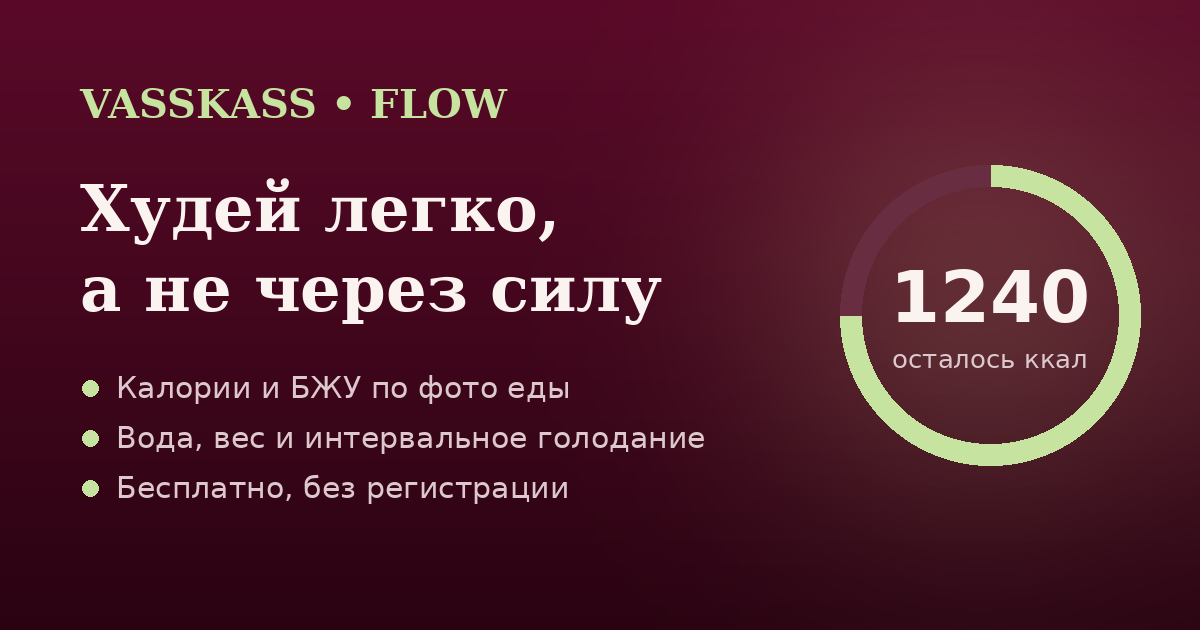
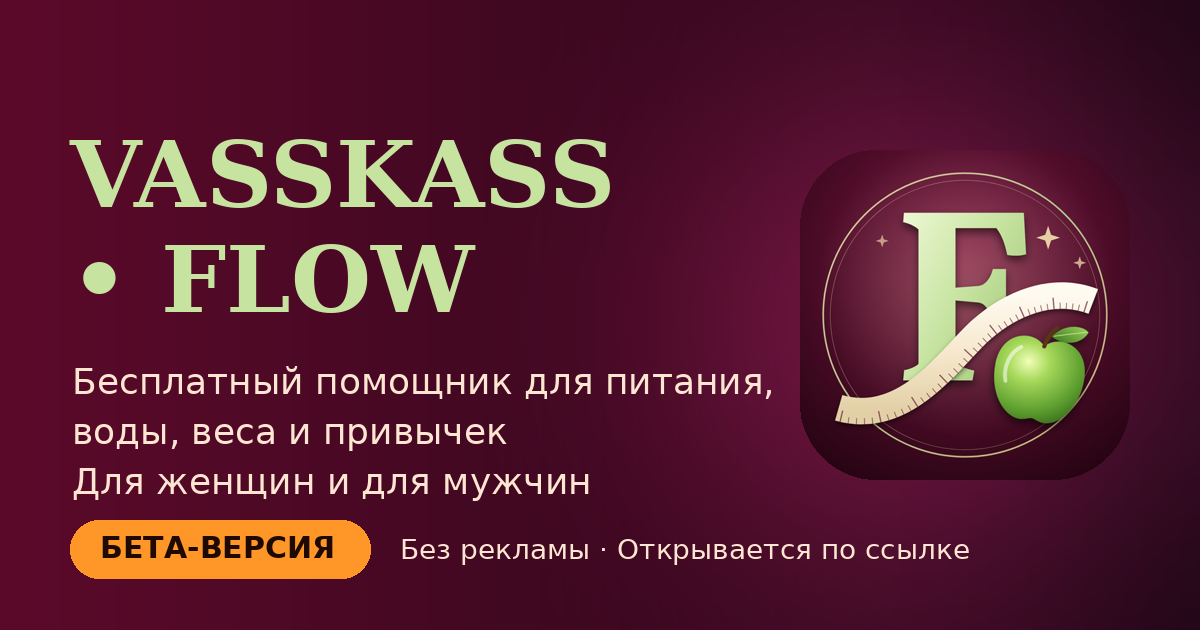
v75: честные описания ссылки (без обещаний фото-распознавания), новый og-image, правки вёрстки на узких экранах 320-360 px
Claude-Session: https://claude.ai/code/session_01UZPCpEJoczKS2AuvPBWdBs

diff --git a/index.html b/index.html
@@ -4,7 +4,7 @@
 <meta charset="UTF-8">
 <meta name="viewport" content="width=device-width, initial-scale=1, maximum-scale=1, user-scalable=no, viewport-fit=cover">
 <title>Счётчик калорий и трекер похудения бесплатно — VASSKASS • FLOW</title>
-<meta name="description" content="Бесплатный трекер калорий и похудения: калории и БЖУ по фото еды, вода, вес, интервальное голодание. Без регистрации.">
+<meta name="description" content="Бесплатный трекер питания, воды, веса и привычек для женщин и мужчин: калории и БЖУ, цели «похудеть», «набрать» или «для себя». Бета-версия, без рекламы.">
 <meta name="keywords" content="счётчик калорий, трекер калорий, дневник питания, калькулятор калорий, похудение, как похудеть, подсчёт калорий онлайн, БЖУ, калорийность продуктов, интервальное голодание, трекер воды, трекер веса, приложение для похудения бесплатно">
 <meta name="robots" content="index, follow, max-image-preview:large">
 <meta name="application-name" content="VASSKASS • FLOW">
@@ -13,18 +13,18 @@
 <link rel="canonical" href="https://dontvan228-hue.github.io/Vas-kas/">
 <meta property="og:type" content="website">
 <meta property="og:site_name" content="VASSKASS • FLOW">
-<meta property="og:title" content="VASSKASS • FLOW — худей легко, а не через силу">
-<meta property="og:description" content="Бесплатный трекер калорий и похудения: калории и БЖУ по фото еды, вода, вес, интервальное голодание. Без регистрации.">
+<meta property="og:title" content="VASSKASS • FLOW — бесплатный помощник для питания и привычек (бета)">
+<meta property="og:description" content="Бесплатный трекер питания, воды, веса и привычек для женщин и мужчин: калории и БЖУ, цели «похудеть», «набрать» или «для себя». Бета-версия, без рекламы.">
 <meta property="og:url" content="https://dontvan228-hue.github.io/Vas-kas/">
 <meta property="og:image" content="https://dontvan228-hue.github.io/Vas-kas/og-image.png">
 <meta property="og:image:width" content="1200">
 <meta property="og:image:height" content="630">
 <meta property="og:locale" content="ru_RU">
 <meta name="twitter:card" content="summary_large_image">
-<meta name="twitter:title" content="VASSKASS • FLOW — худей легко, а не через силу">
-<meta name="twitter:description" content="Бесплатный трекер калорий и похудения: калории и БЖУ по фото еды, вода, вес, интервальное голодание. Без регистрации.">
+<meta name="twitter:title" content="VASSKASS • FLOW — бесплатный помощник для питания и привычек (бета)">
+<meta name="twitter:description" content="Бесплатный трекер питания, воды, веса и привычек для женщин и мужчин: калории и БЖУ, цели «похудеть», «набрать» или «для себя». Бета-версия, без рекламы.">
 <meta name="twitter:image" content="https://dontvan228-hue.github.io/Vas-kas/og-image.png">
-<script type="application/ld+json">{"@context":"https://schema.org","@type":"WebApplication","name":"VASSKASS • FLOW","alternateName":"Счётчик калорий и трекер похудения","url":"https://dontvan228-hue.github.io/Vas-kas/","applicationCategory":"HealthApplication","operatingSystem":"iOS, Android, Web","inLanguage":"ru","description":"Бесплатный счётчик калорий и трекер похудения: калории и БЖУ, вода, вес, интервальное голодание, виртуальная героиня-мотиватор.","offers":{"@type":"Offer","price":"0","priceCurrency":"RUB"}}</script>
+<script type="application/ld+json">{"@context":"https://schema.org","@type":"WebApplication","name":"VASSKASS • FLOW","alternateName":"Счётчик калорий и трекер похудения","url":"https://dontvan228-hue.github.io/Vas-kas/","applicationCategory":"HealthApplication","operatingSystem":"iOS, Android, Web","inLanguage":"ru","description":"Бесплатный трекер питания и привычек (бета-версия): калории и БЖУ, вода, вес, интервальное голодание, цели «похудеть», «набрать» или «для себя», герой-мотиватор.","offers":{"@type":"Offer","price":"0","priceCurrency":"RUB"}}</script>
 <link rel="manifest" href="manifest.webmanifest">
 <link rel="apple-touch-icon" href="icon-180.png?v=47">
 <meta name="apple-mobile-web-app-capable" content="yes">
@@ -264,7 +264,7 @@ html[data-mode=light] .cbbtns button{background:rgba(255,255,255,.6)}html[data-m
 <style>#herV{-webkit-mask-image:none!important;mask-image:none!important}</style>
 <style>.her{-webkit-mask-image:none!important;mask-image:none!important}.herh{-webkit-mask-image:linear-gradient(to bottom,#000 0,#000 27%,transparent 36%)}</style><style>#herH{display:none!important}</style></head>
 <body>
-<noscript><main style="padding:24px;font:16px/1.5 sans-serif"><h1>VASSKASS • FLOW — счётчик калорий и трекер похудения</h1><p>Бесплатное приложение для похудения: подсчёт калорий и БЖУ, дневник питания, трекер воды и веса, интервальное голодание, расчёт нормы калорий и виртуальная героиня, которая мотивирует не срываться. Работает в браузере и устанавливается на экран телефона, без VPN. Включите JavaScript, чтобы открыть приложение.</p></main></noscript>
+<noscript><main style="padding:24px;font:16px/1.5 sans-serif"><h1>VASSKASS • FLOW — счётчик калорий и трекер питания</h1><p>Бесплатное приложение для питания и привычек: подсчёт калорий и БЖУ, дневник питания, трекер воды и веса, интервальное голодание, расчёт нормы калорий и виртуальная героиня, которая мотивирует не срываться. Работает в браузере и устанавливается на экран телефона, без VPN. Включите JavaScript, чтобы открыть приложение.</p></main></noscript>
 
 
 <div id="splash"><div class="lg">VASSKASS</div><div class="q">«Ты с каждым днем будешь прекраснее чем вчера»</div><i></i></div>
@@ -320,7 +320,7 @@ html[data-mode=light] .cbbtns button{background:rgba(255,255,255,.6)}html[data-m
     <input id="fN" placeholder="Найти: гречка, борщ, банан…" oninput="homeSearch()" autocomplete="off">
     <input type="file" id="phIn" accept="image/*" hidden onchange="photoGo(this)"><datalist id="fl"></datalist><div id="fRes"></div>
     <div class="row"><div><label>Или своё блюдо: всего ккал</label><input id="fK" type="number" inputmode="numeric" placeholder="например, 350"></div><button class="btn sm" onclick="addFood()">＋</button></div>
-    <p class="m" style="margin-top:8px;font-size:11px">Выберите продукт, укажите вес — приложение посчитает калории, белки, жиры и углеводы. Ещё продукты, штрихкод и свои рецепты — на вкладке «Углеводы».</p>
+    <p class="m" style="margin-top:8px;font-size:11px">Выберите продукт, укажите вес — приложение посчитает калории, белки, жиры и углеводы. Ещё продукты (можно вписать цифры штрихкода) и свои рецепты — на вкладке «Углеводы».</p>
   </div>
   <div class="card"><h2>БЖУ за сегодня</h2><div id="bzu"></div></div>
   <div class="card"><h2>Сегодня съедено</h2><div id="foodList"></div></div>
@@ -988,7 +988,7 @@ renderChibi=function(all){const u=U();if(!u||!u.p||!$('#cbHero'))return;herEnsur
  const slot=herSlot(),r=herSrc(slot);herShow(r.src,r.vid);st.dataset.st=m==='angry'||m==='sad'||m==='eat'||m==='drink'?m:'';st.dataset.fx=r.exact?'':(slot==='angry'||slot==='sad'||slot==='sleepy'?slot:'');herFx(slot,r.exact);
  const sc=SCN.find(x=>x[0]===c.scn)||SCN[0];$('#t-chibi').style.background=sc[3];
  const bb=$('#cbBub');bb.textContent=say;bb.style.display=say?'block':'none';$('#cbMsg').textContent=cbMsgText();
- $('#cbName').textContent=c.name==='Чиби'?'Героиня':c.name;$('#cbStg').textContent=`${STG[idx]} · ${Math.round(P*100)}% пути · v74`;$('#cbCoin').textContent='🪙 '+c.coins;
+ $('#cbName').textContent=c.name==='Чиби'?'Героиня':c.name;$('#cbStg').textContent=`${STG[idx]} · ${Math.round(P*100)}% пути · v75`;$('#cbCoin').textContent='🪙 '+c.coins;
  $('#cbB1').style.width=sat+'%';$('#cbB2').style.width=wat+'%';$('#cbB3').style.width=(m==='angry'?8:m==='sad'?30:Math.min(100,(sat+wat)/2*.7+done/QS.length*30))+'%';
  if(!all||!$('#cbSheet').classList.contains('on'))return;
  const nm=SLOTS.length,have=SLOTS.filter(x=>HERU[x[0]]).length;
@@ -2433,6 +2433,8 @@ qRender=function(){const b=$('#qBody');
 
 const TH_ALL=TH.slice();
 (function(){const f=fitModes;fitModes=function(){const r=f();const hide=isMan()?['cher','pow','wine']:[];const k=TH_ALL.filter(t=>!hide.includes(t[0]));if(k.length!==TH.length){TH.length=0;k.forEach(t=>TH.push(t))}return r}})();
+/* ===== v75: узкие экраны (320–360 px), честные описания ===== */
+document.head.insertAdjacentHTML('beforeend','<style>@media(max-width:420px){.hltabs{flex-wrap:wrap!important;overflow:visible!important;gap:6px!important}.hltabs button{flex:0 0 auto}header b{font-size:17px;letter-spacing:3px}}@media(max-width:350px){header{padding-left:14px;padding-right:14px}header b{font-size:14px;letter-spacing:1.5px;white-space:nowrap}.btn.sm{padding:12px 10px;white-space:nowrap;letter-spacing:0}html[data-ui] #rL,#rL{font-size:11px}.row{gap:6px}.btn{letter-spacing:0}.row .btn{padding-left:6px;padding-right:6px;font-size:14px;white-space:normal;line-height:1.2}}@media(max-width:380px){html.big body{zoom:1.06}html[data-ui] nav button em,html[data-theme] nav button em{letter-spacing:.06em!important;font-size:10px!important}}.btn.sm{white-space:nowrap}.stp em{max-width:94%;text-align:center;font-size:10px;line-height:1.15;white-space:normal;overflow:hidden}.btn.sm{overflow:visible}</style>');
 </script>
 </body>
 </html>

diff --git a/README.md b/README.md
@@ -1,3 +1,3 @@
 # VASSKASS • FLOW
 
-Бесплатный трекер похудения с виртуальной героиней. Без регистрации, данные хранятся только в твоём браузере.
+Бесплатный трекер питания, воды, веса и привычек для женщин и мужчин (бета-версия). Данные хранятся в твоём браузере; вход по почте нужен только для облачной синхронизации и распознавания еды по фото.
